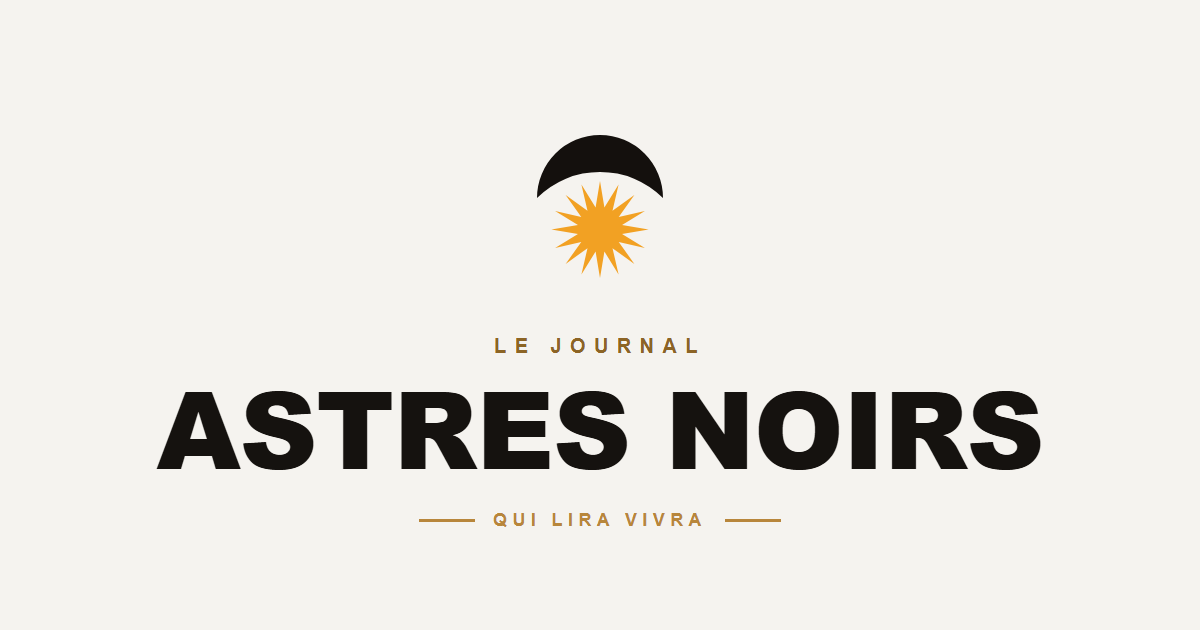
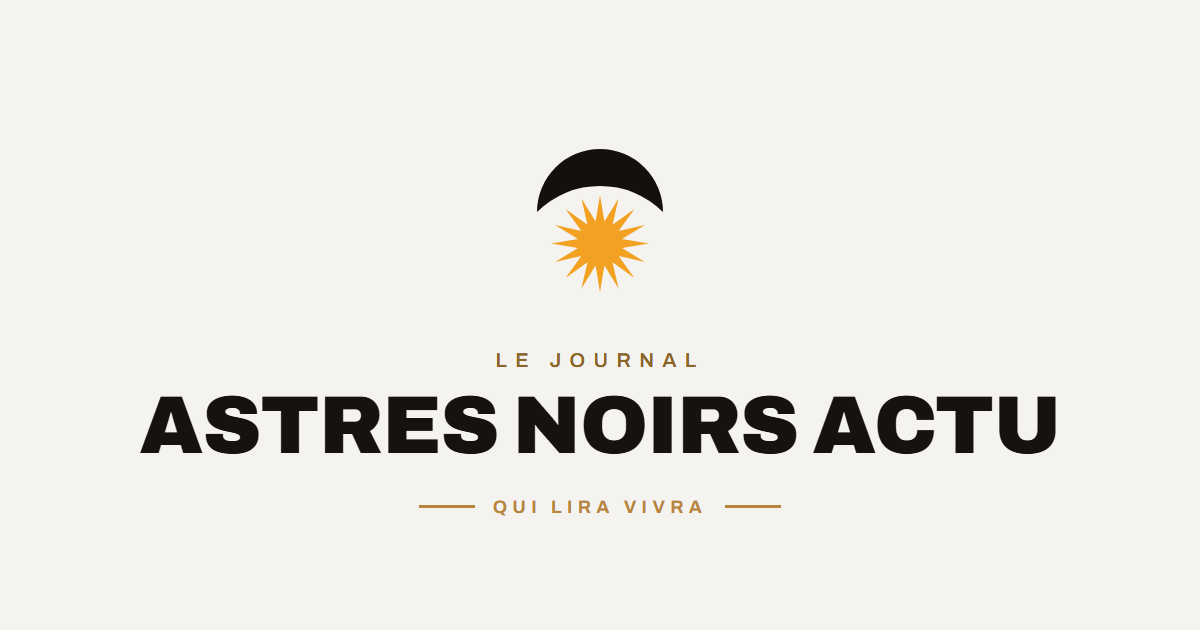
Renomme le journal en "Astres Noirs Actu"
Nouveau nom de domaine (lejournalastresnoirsactu.cm) et nouveau nom
public du journal, distinct de la maison d'édition (Éditions Astres
Noirs, qui reste inchangée) :

- Masthead, pied de page, wordmark : "ASTRES NOIRS" → "ASTRES NOIRS ACTU"
  (tailles de police réajustées pour le nom plus long).
- SITE_NAME, titres de page, description, image de partage par défaut
  (og-default.png) mis à jour.
- Copyright attribué à la maison d'édition ("© Éditions Astres Noirs"),
  qui reste le titulaire légal du journal.
- Domaine texte (footer, README) : lejournalastresnoirs.cm →
  lejournalastresnoirsactu.cm. NEXT_PUBLIC_SITE_URL continue de pointer
  vers l'URL Vercel tant que le DNS du nouveau domaine n'est pas branché.

diff --git a/src/components/SiteFooter.tsx b/src/components/SiteFooter.tsx
@@ -13,10 +13,10 @@ export function SiteFooter() {
         <div className="col-span-2 md:col-span-1">
           <div className="flex items-center gap-2.5 mb-3.5">
             <LogoMark variant="reversed" className="w-[26px] h-[30px]" />
-            <span className="font-ui font-black text-[18px] text-paper tracking-wide">ASTRES NOIRS</span>
+            <span className="font-ui font-black text-[16px] text-paper tracking-wide">ASTRES NOIRS ACTU</span>
           </div>
           <p className="font-body text-[13.5px] text-paper/60 max-w-[280px]">
-            Le Journal Astres Noirs est une publication numérique des Éditions Astres Noirs. Qui lira vivra.
+            Astres Noirs Actu est une publication numérique des Éditions Astres Noirs. Qui lira vivra.
           </p>
           <div className="flex gap-4 mt-4">
             {["Facebook", "Instagram", "X"].map((s) => (
@@ -40,8 +40,8 @@ export function SiteFooter() {
         />
       </div>
       <div className="max-w-[1320px] mx-auto px-4 sm:px-6 md:px-10 mt-8 md:mt-9 pt-5 border-t border-white/10 flex flex-col sm:flex-row gap-1.5 sm:gap-0 justify-between">
-        <span className="font-ui text-[12px] text-paper/45">© 2026 Astres Noirs — Tous droits réservés.</span>
-        <span className="font-ui text-[12px] text-paper/45">lejournalastresnoirs.cm</span>
+        <span className="font-ui text-[12px] text-paper/45">© 2026 Éditions Astres Noirs — Tous droits réservés.</span>
+        <span className="font-ui text-[12px] text-paper/45">lejournalastresnoirsactu.cm</span>
       </div>
     </footer>
   );

diff --git a/src/components/SiteHeader.tsx b/src/components/SiteHeader.tsx
@@ -76,14 +76,14 @@ export async function SiteHeader() {
 
       {/* Masthead */}
       <div className="max-w-[1320px] mx-auto px-4 sm:px-6 md:px-10 pt-6 pb-4 md:pt-9 md:pb-6 flex flex-col items-center">
-        <Link href="/" aria-label="Astres Noirs — accueil">
+        <Link href="/" aria-label="Astres Noirs Actu — accueil">
           <LogoMark className="w-9 h-10 md:w-[54px] md:h-[61px] mb-2 md:mb-3" />
         </Link>
         <div className="font-ui font-bold text-[9px] md:text-[11px] tracking-[0.1em] md:tracking-[0.12em] uppercase text-gold-deep mb-1 md:mb-1.5">
           Le Journal
         </div>
-        <div className="font-ui font-black text-[30px] sm:text-[38px] md:text-[56px] leading-none tracking-tight text-ink">
-          ASTRES NOIRS
+        <div className="font-ui font-black text-[26px] sm:text-[34px] md:text-[50px] leading-none tracking-tight text-ink text-center">
+          ASTRES NOIRS ACTU
         </div>
       </div>
 

diff --git a/src/lib/site.ts b/src/lib/site.ts
@@ -1,9 +1,9 @@
 // L'adresse publique du site, utilisée pour construire les liens absolus
 // (cartes de partage Open Graph, URL canonique). Pointe vers le domaine
-// Vercel tant que lejournalastresnoirs.cm n'est pas branché — il suffira de
-// changer cette seule variable d'environnement le jour venu.
+// Vercel tant que lejournalastresnoirsactu.cm n'est pas branché (DNS) — il
+// suffira de changer cette seule variable d'environnement le jour venu.
 export const SITE_URL = (
   process.env.NEXT_PUBLIC_SITE_URL ?? "https://web-flame-three-96.vercel.app"
 ).replace(/\/$/, "");
 
-export const SITE_NAME = "Astres Noirs";
+export const SITE_NAME = "Astres Noirs Actu";

diff --git a/src/components/Newsletter.tsx b/src/components/Newsletter.tsx
@@ -6,7 +6,7 @@ export function Newsletter() {
           Recevez l&apos;essentiel de l&apos;actualité chaque matin
         </h2>
         <p className="font-body text-[14px] md:text-[15px] text-paper/70 mb-6">
-          Une sélection quotidienne, par la rédaction d&apos;Astres Noirs. Sans spam, désabonnement en un clic.
+          Une sélection quotidienne, par la rédaction d&apos;Astres Noirs Actu. Sans spam, désabonnement en un clic.
         </p>
         <form className="flex flex-col sm:flex-row gap-3 justify-center items-stretch sm:items-start max-w-[420px] sm:max-w-none mx-auto">
           <label htmlFor="nl-email" className="sr-only">

diff --git a/src/app/layout.tsx b/src/app/layout.tsx
@@ -23,7 +23,7 @@ const archivo = Archivo({
 });
 
 const DESCRIPTION =
-  "Le Journal Astres Noirs : actualité, économie, société, diplomatie, arts et culture. Qui lira vivra.";
+  "Astres Noirs Actu : actualité, économie, société, diplomatie, arts et culture. Qui lira vivra.";
 
 export const metadata: Metadata = {
   metadataBase: new URL(SITE_URL),

diff --git a/src/components/Logo.tsx b/src/components/Logo.tsx
@@ -30,7 +30,7 @@ export function Wordmark({ className, variant = "ink" }: WordmarkProps) {
   const color = variant === "ink" ? "text-ink" : "text-paper";
   return (
     <span className={`font-ui font-black tracking-tight ${color} ${className ?? ""}`}>
-      ASTRES NOIRS
+      ASTRES NOIRS ACTU
     </span>
   );
 }

diff --git a/README.md b/README.md
@@ -1,6 +1,6 @@
-# Le Journal Astres Noirs — site
+# Astres Noirs Actu — site
 
-Le code du journal en ligne **lejournalastresnoirs.cm**, publication
+Le code du journal en ligne **lejournalastresnoirsactu.cm**, publication
 numérique des Éditions Astres Noirs.
 
 ## Comment c'est construit, en clair
